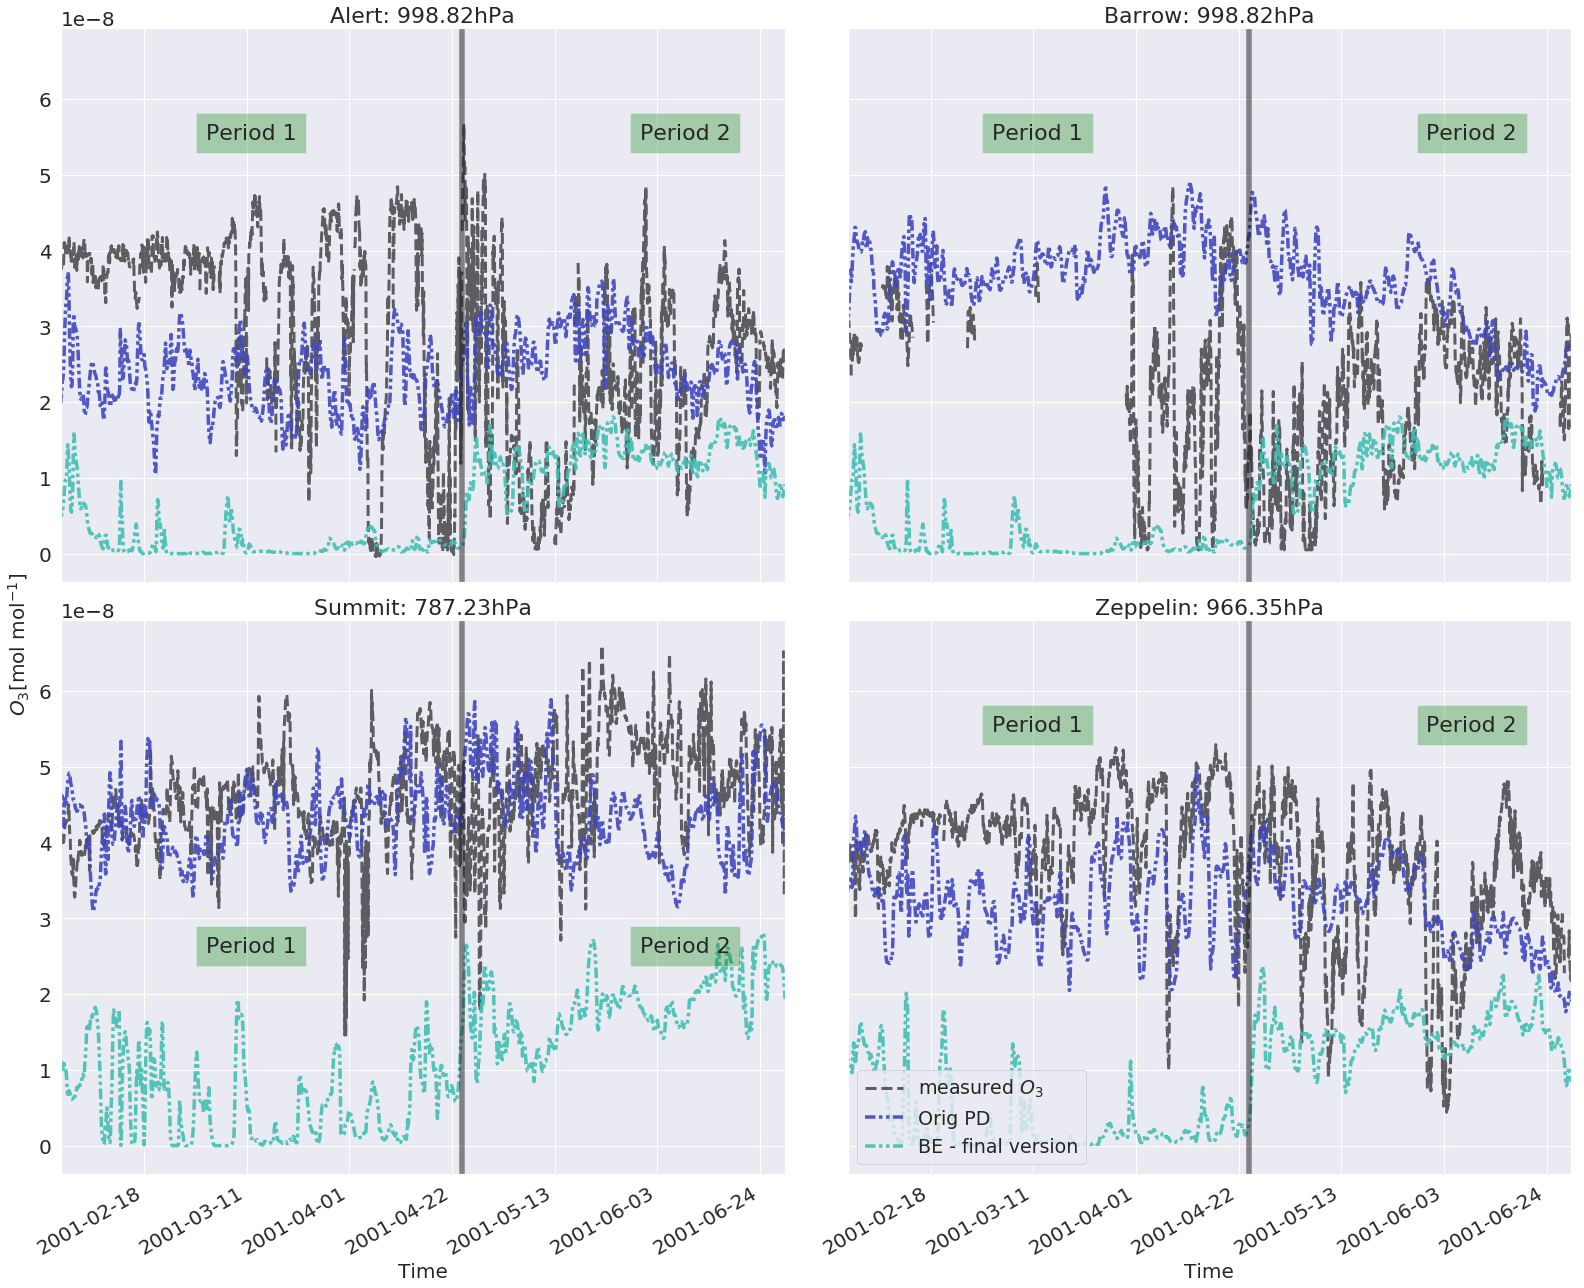
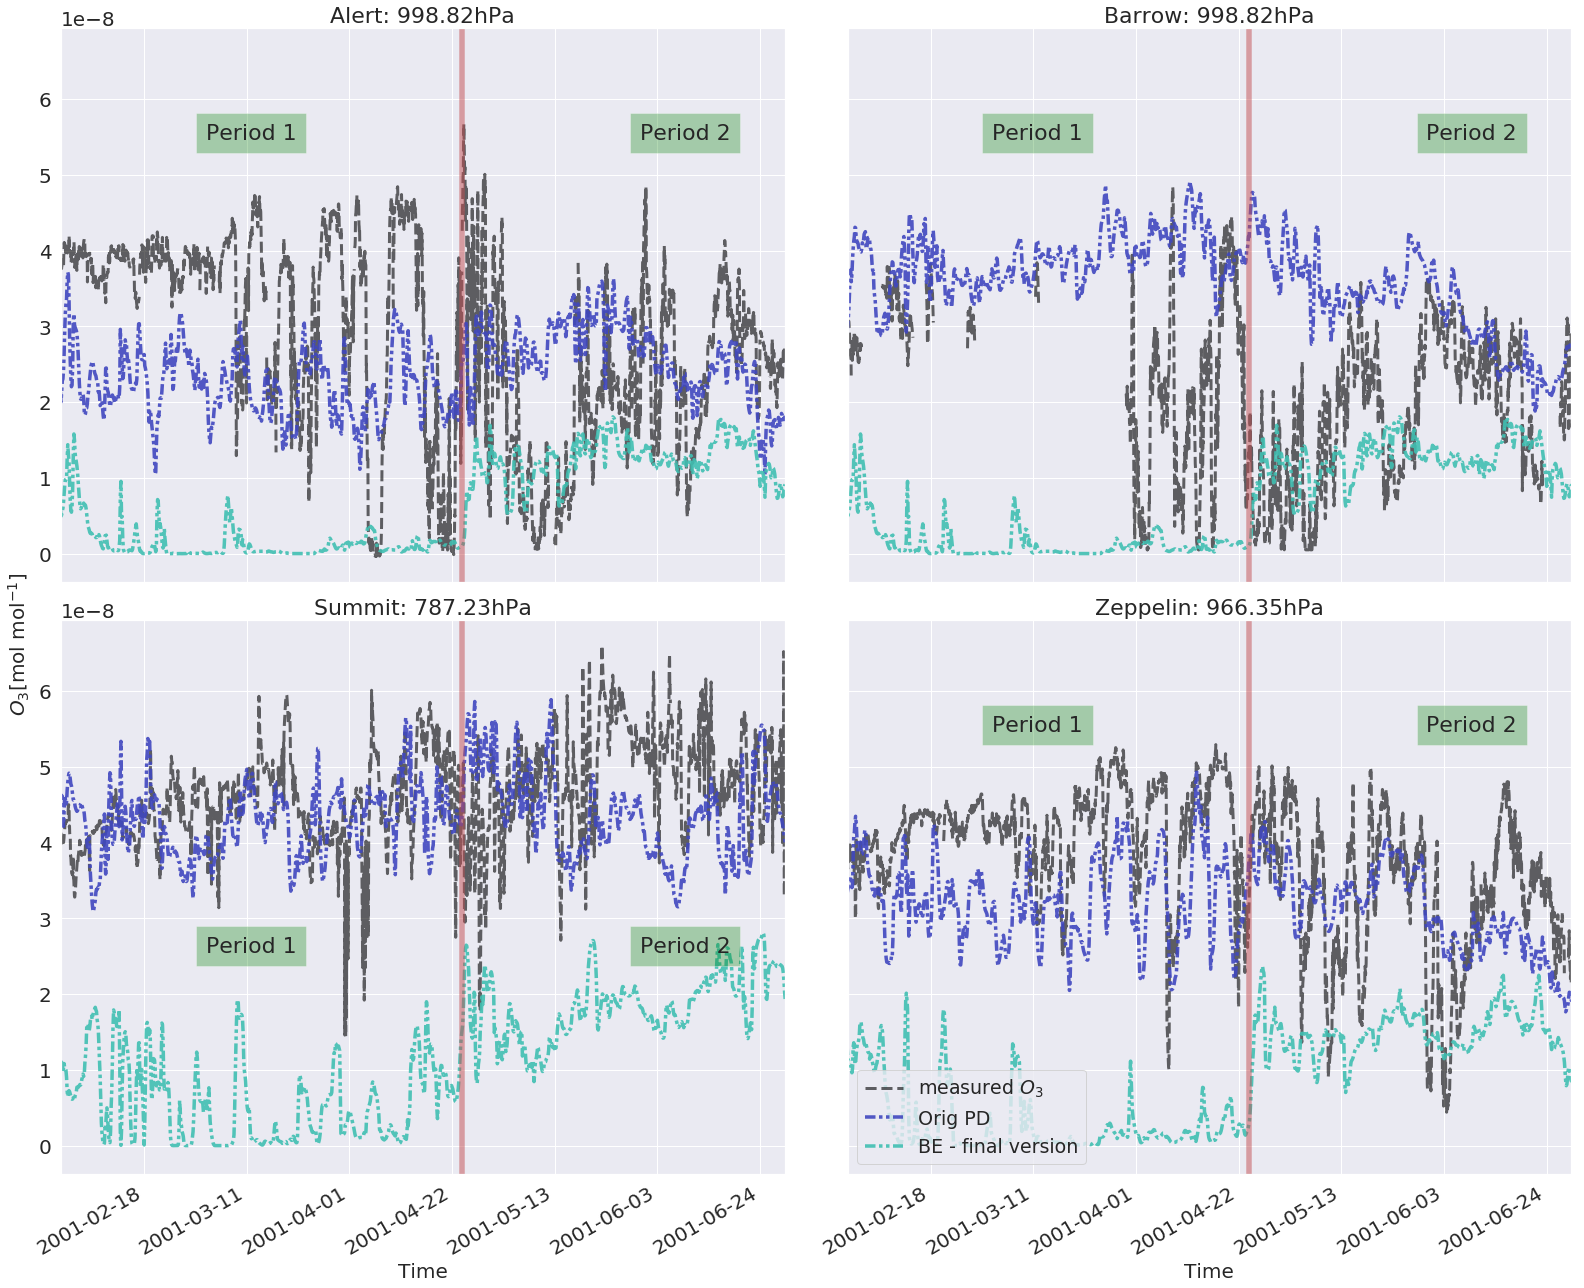
24/5-20 - nummer 2

diff --git a/Chapter6_Results/Results.tex b/Chapter6_Results/Results.tex
@@ -282,27 +282,72 @@ In Figure \ref{fig:polarBrO_step4}, the resulting  \chem{BrO}-\acrshort{vcd} is 
 
 \section{Analysis of the Final Version of the Halogen Branch}\label{sec:res_final_Version}
 
-This section contains the analysis of the final version of the halogen branch (Branch \ref{def:BE_PD_noCl} presented in Section \ref{sec:res_step4} above)(from now on called the BE-branch) and the original CTM3-branch (Branch \ref{def:origCTM3_PD}). A 6-month production run was made for both the BE-branch and the original CTM3-branch, both initiated from Stefanie Falk's restart file (\cite{StefaniePersonal}). 
+This section contains the analysis of the final version of the halogen branch (Branch \ref{def:BE_PD_noCl} presented in Section \ref{sec:res_step4} above)(from now on called the BE-branch), the original CTM3-branch (Branch \ref{def:origCTM3_PD}) and the observational data. A 6-month production run was made for both the BE-branch and the original CTM3-branch, both initiated from Stefanie Falk's restart file (\cite{StefaniePersonal}). The section is divided into two parts: an analysis of the BE-branch against the observational data (Section \ref{sec:res_twoPeriods}), and further analysis of the BE-branch, the original CTM3 and the observational data (Section \ref{sec:res_origBE}).
 
-\subsection{Analysis of the Two Periods February-April and April-June}
+\subsection{Analysis of the Two Periods February-April and April-June}\label{sec:res_twoPeriods}
 
 Figure \ref{fig:ozone_2001_step4} in the previous section contains the full time series of the ozone mixing ratio with the BE-branch, the original CTM3 branch and observational data from Alert, Barrow, Summit and Zeppelin. Figure \ref{fig:2p_step5} contains the same branches (except the test-branch in Figure \ref{fig:ozone_2001_step4}), although zoomed in on the February through June. The periods February 1st through April 24th (period 1) and April 24th through June 30th (period 2) are divided into two periods, as the BE-branch seems to follow different regimes with lower $\chem{O_3}$ mixing ratio in period 1 and higher mixing ratios in period 2. It is clear form this figure that the BE-branch produces lower ozone mixing ratios than the original CTM3-branch. Also, the measurements are generally higher than what's produced by the BE-branch. The exceptions are at the beginning of May at Alert,  and the end of April/beginning of May at Barrow.
 
 %\input{Chapter6_Results/images/ozone_2001_step5}
 \input{Chapter6_Results/images/ozone_stationComp_2001/ozone_2001_2periods_step5}
 
-\clearpage
+\medskip
 
-\subsection{Analysis of the Difference Between the Final BE-Branch and the Original CTM3} 
-
-Figure \ref{fig:joint_FebApr} and \ref{fig:joint_AprMay} contains distributions of the agreements between the original CTM3, the BE-branch and the observational data. They are divided into two periods to separate the BE-branch results before stabilization and after, respectively (before the 24th of April and after). 
+Figures \ref{fig:vert_ALT}-\ref{fig:vert_ZEP} contains the temporal evolution of ozone and halogen species in the model layers above Alert, Barrow, Zeppelin and Summit, respectively. It can be seen from all figures that there is a clear distinction between Period 1 and Period 2, with increased ozone mixing ratios in Period 2, also with altitude. 
 
 \medskip
 
-In Figures \ref{fig:BE_origPD_vmr_FebMarch} - \ref{fig:BE_origPD_vmr_AprJun}, the monthly mean mixing ratio (in ppb) from the first model layer of the BE-branch is subtracted from the first model layer of the CTM3-branch and the difference is shown globally and for the Arctic (above 68$^o$N) for the months February through June in 2001. In February (Figure \ref{fig:BE_origPD_vmr_FebMarch}), the BE-branch produces a higher 
+At Alert (Figure \ref{fig:vert_ALT}), the distinction between Period 1 and 2 considering ozone is an increase from approximately 0-8 ppb in Period 1 to 10-30 ppb in Period 2, with the highest levels found aloft. From the end of April (in Period 1) until the end of May (in Period 2), the \chem{HBr} mixing ratio is on average approximately 10-30 ppt, with a peak in the separation between the two period (around the 24th of April). This behaviour of the temporal evolution of \chem{HBr} can be seen in Figures \ref{fig:vert_BRW}-\ref{fig:vert_ZEP} as well. The other halogen species generally have a low mixing ratio in Period 1, and are virtually non-existent in Period 2. 
 
-\input{Chapter6_Results/images/Orig_BE_comp/jointplot_FebApr_O3_2001}
-\input{Chapter6_Results/images/Orig_BE_comp/jointplot_AprJune_O3_2001}
+\medskip
+
+The ozone mixing ratio at Barrow (in Figure \ref{fig:vert_BRW}) in Period 1 is approximately 6-20 ppb, and increases to about 20-30 ppb in Period 2. Unlike the \chem{HOBr} mixing ratio seen at Alert, there is some increase in the mixing ratio during Period 2, however less than what's seen in Period 1. This also applies to the \chem{HOBr} mixing ratio seen at Summit (Figure \ref{fig:vert_SUM}) and Zeppelin (Figure \ref{fig:vert_ZEP}). The temporal evolution of the mixing ratio in the other halogen species shows virtually nothing in Period2.
+
+\medskip
+
+At Summit (Figure \ref{fig:vert_SUM}), the ozone mixing ratio in Period 1 is low at the ground level (keep in mind that Summit station is located at 3238 m.a.s.l.). However, distinctly higher mixing ratios (30 - 40 ppb) can be seen aloft. In Period 2, the ground level ozone has increased a bit (up to about 15 ppb), but still with higher mixing ratios aloft. 
+
+\medskip
+
+Lastly, the ozone mixing ratio at Zeppelin (Figure \ref{fig:vert_ZEP}) is quite low during Period 1 (approximately 0-10 ppb), and increases abruptly in Period 2 (up to about 20-40 ppb). 
+
+
+\input{Chapter6_Results/images/Vert_StationComp_2001/vert_all_species_ALT}
+\input{Chapter6_Results/images/Vert_StationComp_2001/vert_all_species_BRW}
+\input{Chapter6_Results/images/Vert_StationComp_2001/vert_all_species_SUM}
+\input{Chapter6_Results/images/Vert_StationComp_2001/vert_all_species_ZEP}
+
+
+\clearpage
+
+\subsection{Analysis of the Difference Between the Final BE-Branch and the Original CTM3}\label{sec:res_origBE} 
+
+Figures \ref{fig:joint_FebApr_ALTSUM}- \ref{fig:joint_AprMay_ZEPBRW} contains distributions of the agreements between the original CTM3, the BE-branch and the observational data. They are divided into Period 1 and 2 to separate the BE-branch results before stabilization and after (before and after the 24th of April). The figures also show a distribution of the BE-branch- and Original CTM3-results as well as the distribution of the observed ozone. In addition, the Pearson correlation coefficient and corresponding p-value is shown\footnote{The Pearson correlation coefficient takes a values between $-1$ (exact linear negatively correlated relationship) and $1$ (exact linear positively correlated relationship). The p-value indicates the probability of an uncorrelated system producing datasets that have a Pearson correlation at least as extreme as the one computed from these datasets (statistically significant if $p<0.05$) (\cite{WILKS201123})}.
+
+\medskip
+
+Figure \ref{fig:joint_FebApr_ALTSUM} contains the distributions and correlations for Alert (ALT) and Summit (SUM) during Period 1. The resulting correlations between the model results and observation are poor and varies between being positively and negatively correlated. The highest correlation with observations is with the original CTM3-results at Alert (Pearson number $=0.16$, $p = 0.00011$) (lower right). Similarly, the correlations shown in Figure \ref{fig:joint_FebApr_ZEPBRW}, for Zeppelin (ZEP) and Barrow (BRW), are poor and varies between being positively and negatively correlated. Again, the highest correlation with observations is with the original CTM3-results at Zeppelin (Pearson number $=0.43$, $p = 9.81\times10^{-31}$) (upper right). 
+
+\medskip
+
+In Period 2, the distribution of the BE-branch and Original CTM3 against observations at Alert and Summit are shown in Figure \ref{fig:joint_AprMay_ALTSUM}. Again, the correlations are somewhat poor. The highest correlation with observations is with the BE-branch at Alert (Pearson number $=0.33$, $p = 7.8\times10^{-14}$) (lower left). However, at Zeppelin (in Figure \ref{fig:joint_AprMay_ZEPBRW}), the highest correlation is found between the observations and the Original CTM3 (Pearson number $=0.5$, $p = 1.7\times10^{-34}$) (upper right). 
+
+
+
+\input{Chapter6_Results/images/Orig_BE_comp/jointplot_FebApr_ALTSUM_O3_2001}
+
+
+\input{Chapter6_Results/images/Orig_BE_comp/jointplot_FebApr_ZEPBRW_O3_2001}
+
+\input{Chapter6_Results/images/Orig_BE_comp/jointplot_AprJune_ALTSUM_O3_2001}
+
+\input{Chapter6_Results/images/Orig_BE_comp/jointplot_AprJune_ZEPBRW_O3_2001}
+
+\medskip
+
+In Figures \ref{fig:BE_origPD_vmrperc_FebApr} - \ref{fig:BE_origPD_vmrperc_AprJune}, the monthly mean mixing ratio (in ppb) from the first model layer of the BE-branch is subtracted from the first model layer of the CTM3-branch and the difference is shown globally and for the Arctic (above 68$^o$N) for the months February through June in 2001.
+
+
 
 
 \input{Chapter6_Results/images/Orig_BE_comp/polar_VMRperc_FebApr_2001}
@@ -329,7 +374,7 @@ In Figures \ref{fig:BE_origPD_vmr_FebMarch} - \ref{fig:BE_origPD_vmr_AprJun}, th
 %\cite{Thomas2012} and \cite{Thomas2011} about the mechanism behind ODEs at Summit, Greenland. 
 
 %\section{Calculation of radiative forcing using PD- and PI model results}
-
+\clearpage
 \section{Radiative forcing}
 
 \input{Chapter6_Results/images/RF/BEOrig_RF_polar_FebApr_2001}

diff --git a/Chapter6_Results/images/ozone_stationComp_2001/ozone_2001_2periods_step5.tex b/Chapter6_Results/images/ozone_stationComp_2001/ozone_2001_2periods_step5.tex
@@ -1,6 +1,6 @@
 \begin{figure}[h]
     \centering
     \includegraphics[width = \linewidth]{Chapter6_Results/images/ozone_stationComp_2001/ozone_2001_2periods_step5.png}
-    \caption{Ozone measurements (black line) and model results from the original CTM3 (Branch \ref{def:origCTM3_PD}) (blue line) and the final version of the halogen branch (turquoise line) at the four different stations, Alert (top left), Barrow (top right), Summit (lower left) and Zeppelin (lower right) with measurements and model results from February to June, 2001. The results are split into two periods, 'Period 1' and 'Period 2'. Model results were taken from the approximate altitude of the station in hPa. PD = present day, BE = bromine explosion}
+    \caption{Ozone measurements (black line) and model results from the original CTM3 (Branch \ref{def:origCTM3_PD}) (blue line) and the final version of the halogen branch (turquoise line) at the four different stations, Alert (top left), Barrow (top right), Summit (lower left) and Zeppelin (lower right) with measurements and model results from February to June, 2001. The results are split into two periods, 'Period 1' and 'Period 2' and the vertical line represents the separation between the periods. Model results were taken from the approximate altitude of the station in hPa. PD = present day, BE = bromine explosion}
     \label{fig:2p_step5}
 \end{figure}

diff --git a/Chapter7_Discussion/discussion.tex b/Chapter7_Discussion/discussion.tex
@@ -117,8 +117,14 @@ Figure \ref{fig:ozone_2001_step4} shows the resulting ozone mixing at the four d
 
 \section{Analysis of the Final Version of the Halogen Branch}\label{sec:disc_final_Version}
 
+\subsection{Analysis of the Two Periods February-April and April-June}\label{sec:disc_twoPeriods}
 
-\section{Radiative Forcing Calculations}
+\subsection{Analysis of the Difference Between the Final BE-Branch and the Original CTM3}\label{sec:disc_origBE}
+
+The correlations between the model results (BE-branch and the original CTM3) for the Periods 1 and 2 shown in Figures \ref{fig:joint_FebApr_ALTSUM}-\ref{fig:joint_AprMay_ZEPBRW} generally depicts poor agreement between both the models and the observational data. There are no correlations above 0.5, and the correlation coefficient varies between being negative and positive. Also the correlations between the Original CTM3 and the observational data appears to be slightly higher (and more significant) for most of the stations. 
+
+
+\section{Radiative Forcing}\label{sec:disc_RF}
 
 \section{Future work}
 

diff --git a/Chapter6_Results/images/NotInUse/jointplot_FebApr_O3_2001.tex b/Chapter6_Results/images/NotInUse/jointplot_FebApr_O3_2001.tex
@@ -1,0 +1,8 @@
+\begin{figure}[ht]
+    \centering
+    \includegraphics[width = 0.8\linewidth]{Chapter6_Results/images/Orig_BE_comp/jointplot_FebApr_O3_2001.png}
+    \caption{Measured $\chem{O_3}$ in ppb vs. modelled results from the and modelled results from the BE-branch (left columns) and original CTM3 (right columns) at the four stations, Summit (SUM), Alert (ALT), Barrow(BRW) and Zeppelin(ZEP) (model results taken from the station's approximate altitude). The histogram distribution of the observations (x-axis) and the model results (y-axis) are shown on the x- and y-axis, respectively. The Pearson correlation coefficient and p-value is shown in the top right corner. \textbf{Period 1} - February 1st-April 24th, 2001}
+    \label{fig:joint_FebApr}
+\end{figure}
+
+

diff --git a/Chapter6_Results/images/NotInUse/jointplot_AprJune_O3_2001.tex b/Chapter6_Results/images/NotInUse/jointplot_AprJune_O3_2001.tex
@@ -1,0 +1,6 @@
+\begin{figure}[ht]
+    \centering
+    \includegraphics[width = 0.8\linewidth]{Chapter6_Results/images/Orig_BE_comp/jointplot_AprJune_O3_2001.png}
+    \caption{Measured $\chem{O_3}$ in ppb vs. modelled results from the and modelled results from the BE-branch (left columns) and original CTM3 (right columns) at the four stations, Summit (SUM), Alert (ALT), Barrow(BRW) and Zeppelin(ZEP) (model results taken from the station's approximate altitude) The histogram distribution of the observations (x-axis) and the model results (y-axis) are shown on the x- and y-axis, respectively. The Pearson correlation coefficient and p-value is shown in the top right corner. \textbf{Period 2} - April 24th-June 30th, 2001}
+    \label{fig:joint_AprMay}
+\end{figure}

diff --git a/Chapter6_Results/images/Orig_BE_comp/jointplot_FebApr_ZEPBRW_O3_2001.tex b/Chapter6_Results/images/Orig_BE_comp/jointplot_FebApr_ZEPBRW_O3_2001.tex
@@ -1,0 +1,6 @@
+\begin{figure}[ht]
+    \centering
+    \includegraphics[width = \linewidth]{Chapter6_Results/images/Orig_BE_comp/jointplot_FebApr_ZEPBRW_O3_2001.png}
+    \caption{Measured $\chem{O_3}$ in ppb vs. modelled results from the and modelled results from the BE-branch (left columns) and original CTM3 (right columns) at  Zeppelin (ZEP) (top) and Barrow (BRW) (bottom) (model results taken from the station's approximate altitude) The histogram distribution of the observations (x-axis) and the model results (y-axis) are shown on the x- and y-axis, respectively. The Pearson correlation coefficient and p-value is shown in the top right corner. \textbf{Period 1} - February 1st-April 24th, 2001}
+    \label{fig:joint_FebApr_ZEPBRW}
+\end{figure}

diff --git a/Chapter6_Results/images/Orig_BE_comp/jointplot_FebApr_ALTSUM_O3_2001.tex b/Chapter6_Results/images/Orig_BE_comp/jointplot_FebApr_ALTSUM_O3_2001.tex
@@ -1,0 +1,6 @@
+\begin{figure}[ht]
+    \centering
+    \includegraphics[width = \linewidth]{Chapter6_Results/images/Orig_BE_comp/jointplot_FebApr_ALTSUM_O3_2001.png}
+    \caption{Measured $\chem{O_3}$ in ppb vs. modelled results from the and modelled results from the BE-branch (left columns) and original CTM3 (right columns) at  Alert (ALT) (top) and Summit (SUM) (bottom) (model results taken from the station's approximate altitude) The histogram distribution of the observations (x-axis) and the model results (y-axis) are shown on the x- and y-axis, respectively. The Pearson correlation coefficient and p-value is shown in the top right corner. \textbf{Period 1} - February 1st-April 24th, 2001}
+    \label{fig:joint_FebApr_ALTSUM}
+\end{figure}

diff --git a/Chapter6_Results/images/Orig_BE_comp/jointplot_AprJune_ZEPBRW_O3_2001.tex b/Chapter6_Results/images/Orig_BE_comp/jointplot_AprJune_ZEPBRW_O3_2001.tex
@@ -1,0 +1,6 @@
+\begin{figure}[ht]
+    \centering
+    \includegraphics[width = \linewidth]{Chapter6_Results/images/Orig_BE_comp/jointplot_AprJune_ZEPBRW_O3_2001.png}
+    \caption{Measured $\chem{O_3}$ in ppb vs. modelled results from the and modelled results from the BE-branch (left columns) and original CTM3 (right columns) at  Zeppelin(ZEP) (top) and Barrow(BRW) (bottom) (model results taken from the station's approximate altitude) The histogram distribution of the observations (x-axis) and the model results (y-axis) are shown on the x- and y-axis, respectively. The Pearson correlation coefficient and p-value is shown in the top right corner. \textbf{Period 2} - April 24th-June 30th, 2001}
+    \label{fig:joint_AprMay_ZEPBRW}
+\end{figure}

diff --git a/Chapter6_Results/images/Orig_BE_comp/jointplot_AprJune_ALTSUM_O3_2001.tex b/Chapter6_Results/images/Orig_BE_comp/jointplot_AprJune_ALTSUM_O3_2001.tex
@@ -1,0 +1,6 @@
+\begin{figure}[ht]
+    \centering
+    \includegraphics[width = \linewidth]{Chapter6_Results/images/Orig_BE_comp/jointplot_AprJune_ALTSUM_O3_2001.png}
+    \caption{Measured $\chem{O_3}$ in ppb vs. modelled results from the and modelled results from the BE-branch (left columns) and original CTM3 (right columns) at Summit (SUM) (top) and Alert (ALT) (bottom) (model results taken from the station's approximate altitude) The histogram distribution of the observations (x-axis) and the model results (y-axis) are shown on the x- and y-axis, respectively. The Pearson correlation coefficient and p-value is shown in the top right corner. \textbf{Period 2} - April 24th-June 30th, 2001}
+    \label{fig:joint_AprMay_ALTSUM}
+\end{figure}

diff --git a/Chapter6_Results/images/Vert_StationComp_2001/vert_all_species_ZEP.tex b/Chapter6_Results/images/Vert_StationComp_2001/vert_all_species_ZEP.tex
@@ -1,0 +1,6 @@
+\begin{figure}[h]
+    \centering
+    \includegraphics[width=\linewidth]{Chapter6_Results/images/Vert_StationComp_2001/vert_all_species_ZEP.png}
+    \caption{Mixing ratio ($mol mol^{-1}$) of $\chem{O_3}$, $\chem{HBr}$, $\chem{HOBr}$, $\chem{BrO}$,$\chem{Br}$ and $\chem{Br_2}$ from the station ground level up to $\sim 600 hPa$ at Zeppelin in Period 1 (left of the red line) and Period 2 (right of the red line) in 2001}
+    \label{fig:vert_ZEP}
+\end{figure}

diff --git a/Chapter6_Results/images/Vert_StationComp_2001/vert_all_species_BRW.tex b/Chapter6_Results/images/Vert_StationComp_2001/vert_all_species_BRW.tex
@@ -1,0 +1,6 @@
+\begin{figure}[h]
+    \centering
+    \includegraphics[width=\linewidth]{Chapter6_Results/images/Vert_StationComp_2001/vert_all_species_BRW.png}
+    \caption{Mixing ratio ($mol mol^{-1}$) of $\chem{O_3}$, $\chem{HBr}$, $\chem{HOBr}$, $\chem{BrO}$,$\chem{Br}$ and $\chem{Br_2}$ from the station ground level up to $\sim 600 hPa$ at Barrow in Period 1 (left of the red line) and Period 2 (right of the red line) in 2001}
+    \label{fig:vert_BRW}
+\end{figure}

diff --git a/Chapter6_Results/images/Vert_StationComp_2001/vert_all_species_SUM.tex b/Chapter6_Results/images/Vert_StationComp_2001/vert_all_species_SUM.tex
@@ -1,0 +1,6 @@
+\begin{figure}[h]
+    \centering
+    \includegraphics[width=\linewidth]{Chapter6_Results/images/Vert_StationComp_2001/vert_all_species_SUM.png}
+    \caption{Mixing ratio ($mol mol^{-1}$) of $\chem{O_3}$, $\chem{HBr}$, $\chem{HOBr}$, $\chem{BrO}$,$\chem{Br}$ and $\chem{Br_2}$ from the station ground level up to $\sim 400 hPa$ at Summit in Period 1 (left of the red line) and Period 2 (right of the red line) in 2001}
+    \label{fig:vert_SUM}
+\end{figure}
